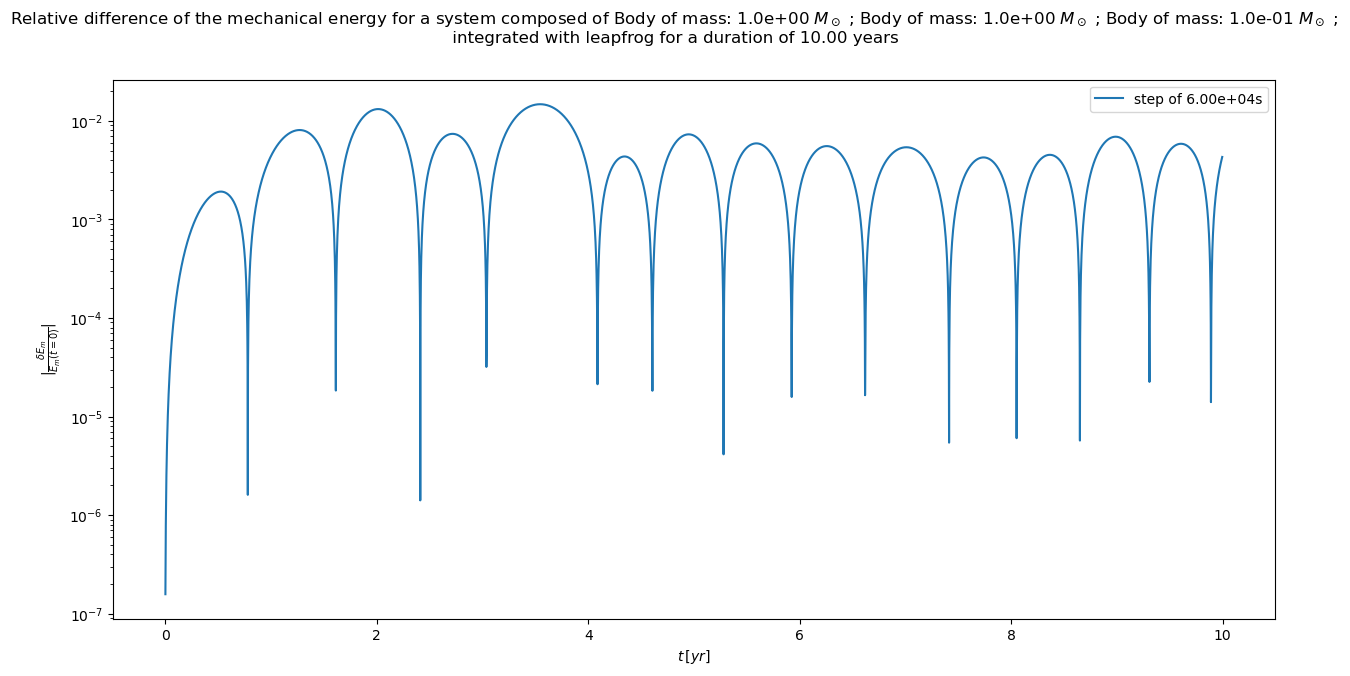
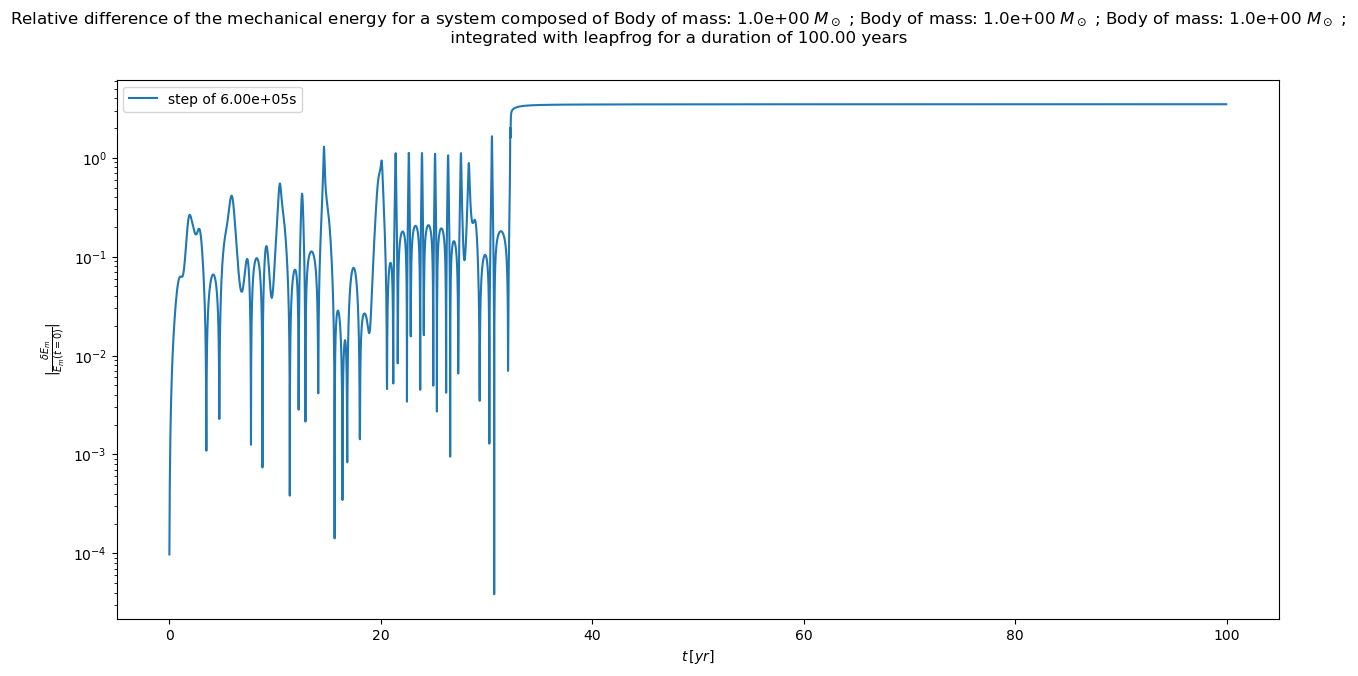
phi derivation

diff --git a/main.py b/main.py
@@ -14,7 +14,7 @@ def main():
     m = np.array([1., 1., 1e-1],dtype=np.longdouble)*Ms/Ms  # Masses in Solar mass
     a = np.array([1., 1., 5.],dtype=np.longdouble)*au/au   # Semi-major axis in astronomical units
     e = np.array([0., 0., 0.],dtype=np.longdouble)   # Eccentricity
-    psi = np.array([0., 0., 45.],dtype=np.longdouble)*np.pi/180.    # Inclination of the orbital plane in degrees
+    psi = np.array([0., 0., 80.],dtype=np.longdouble)*np.pi/180.    # Inclination of the orbital plane in degrees
 
     x1 = np.array([0., -1., 0.],dtype=np.longdouble)*a[0]*(1.+e[0])
     x2 = np.array([0., 1., 0.],dtype=np.longdouble)*a[1]*(1.+e[1])
@@ -27,7 +27,7 @@ def main():
     v = np.array([v1, v2, v3],dtype=np.longdouble)
 
     #integration parameters
-    duration, step = 10*yr, np.array([60000.],dtype=np.longdouble) #integration time and step in seconds
+    duration, step = 100*yr, np.array([600000.],dtype=np.longdouble) #integration time and step in seconds
     step = np.sort(step)[::-1]
     integrator = "leapfrog"
     n_bodies = 3

diff --git a/lib/objects.py b/lib/objects.py
@@ -5,6 +5,8 @@ Class definition for physical attribute
 """
 from os import system
 import numpy as np
+from astropy.coordinates import Angle
+from astropy import units as u
 from lib.plots import DynamicUpdate
 from lib.units import *
 
@@ -203,3 +205,11 @@ class System(Body):
         else :
             sma = np.nan
         return sma
+
+    def phi(self,body1,body2): #return angle in degree between plans formed by body1 and body2 trajectories
+        n1 = np.cross(body1.q,body1.v)
+        n2 = np.cross(body2.q, body2.v)
+        phi = np.arccos(np.dot(n1, n2) / (np.linalg.norm(n1) * np.linalg.norm(n2)))
+        phi = Angle(phi, u.radian)
+        phi = phi.dec
+        return phi
